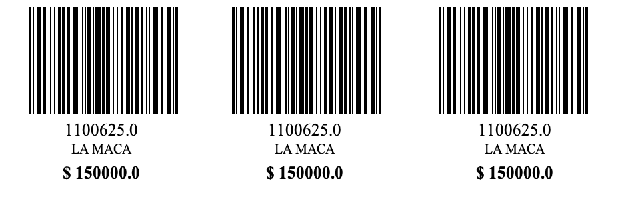
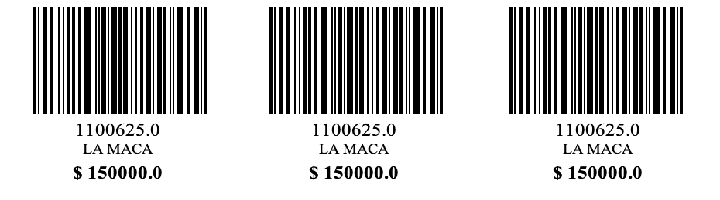
Adding some omages to test in the printer

diff --git a/spring-boot/src/main/java/com/example/springboot/Application.java b/spring-boot/src/main/java/com/example/springboot/Application.java
@@ -56,7 +56,7 @@ public class Application {
 		for (Row row : sheet) {
 			data.put(i, new ArrayList<String>());
 			for (Cell cell : row) {
-				data.get(i).add(cell.toString());
+				data.get(i).add(cell.toString().trim().replace('.','0'));
 			}
 			i++;
 		}
@@ -66,6 +66,7 @@ public class Application {
 				ArrayList<String> lista = ((ArrayList<String>) entrySet.getValue());
 				Barcode barcode = new Barcode();
 				Image img = barcode.encode(EncodingType.CODE128, lista.get(0));
+				img = img.getScaledInstance(200,100,BufferedImage.SCALE_REPLICATE);
 				savePic(img,"PNG","Producto_" + lista.get(0) + ".png", lista.get(0), lista.get(1), lista.get(7));
 			}
 		}
@@ -77,7 +78,7 @@ public class Application {
 		int heightImage = 280;
 		int widthImage = 930;
 		int heightImageSmall = 200;
-		int widthImageSmall = 620;
+		int widthImageSmall = 720;
 
 		BufferedImage bufferedImage = new BufferedImage(widthImage,heightImage, BufferedImage.TYPE_INT_ARGB);
 		Graphics graphics = bufferedImage.getGraphics();
